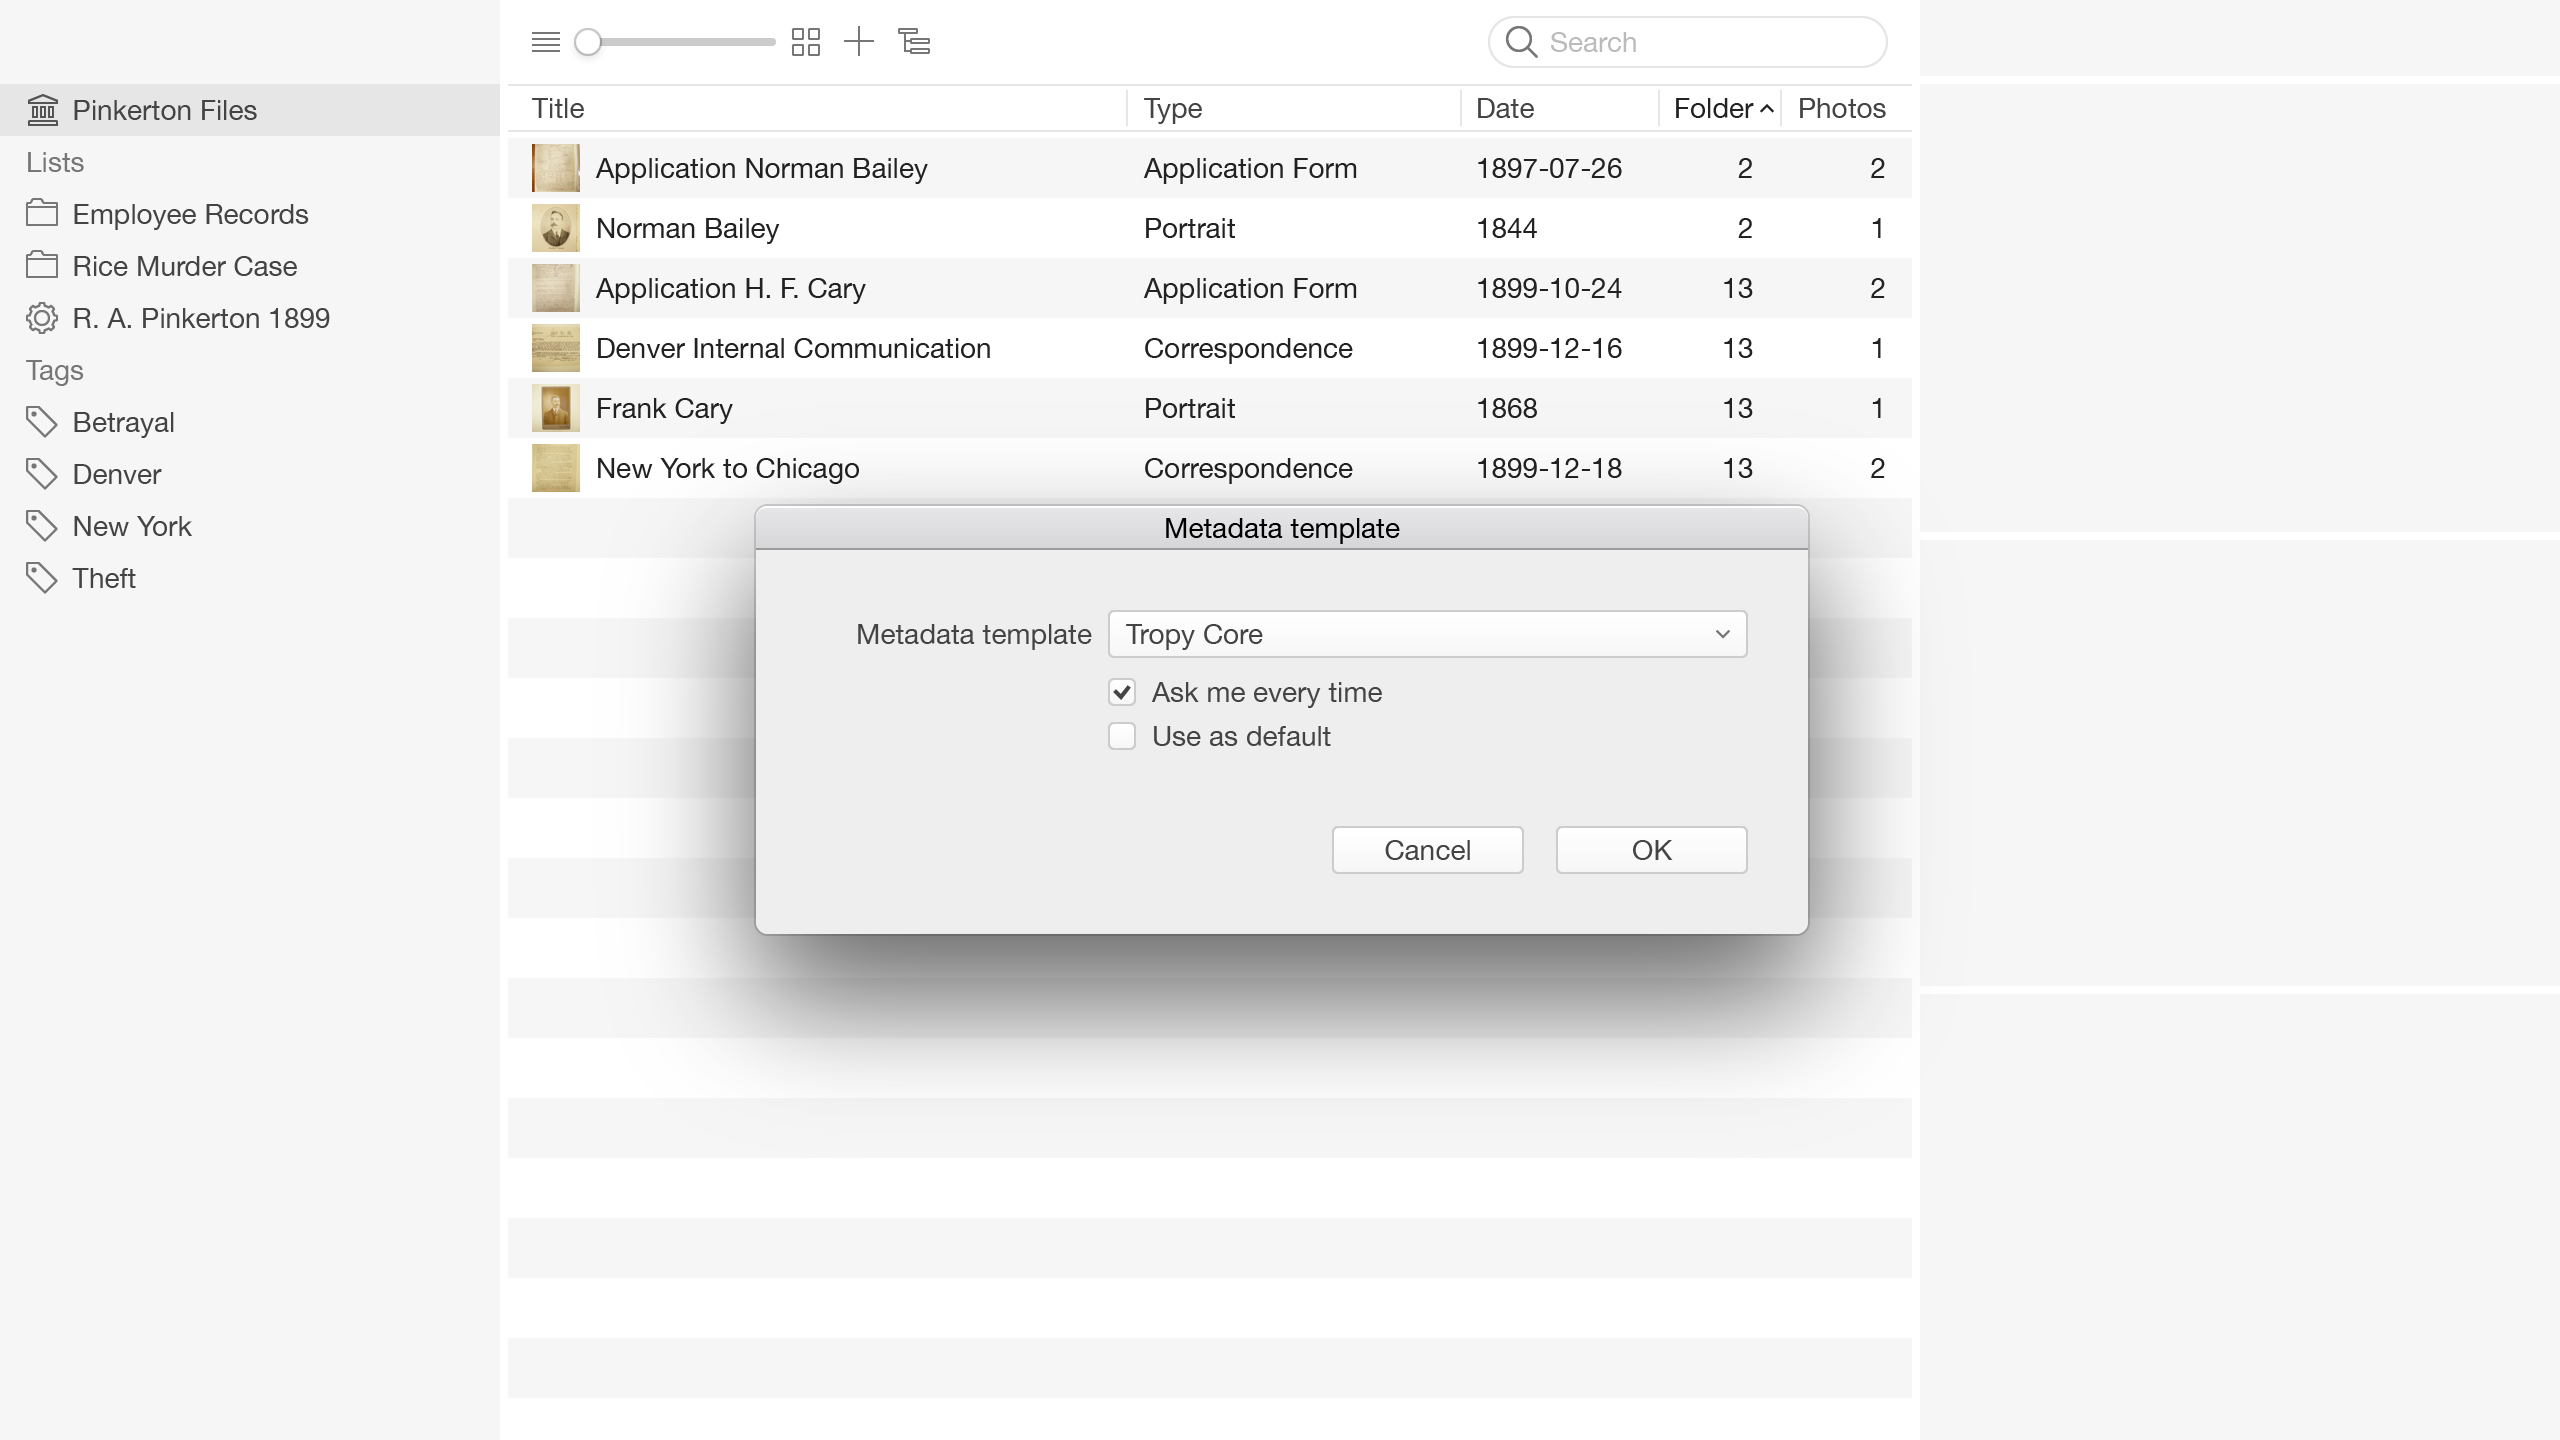
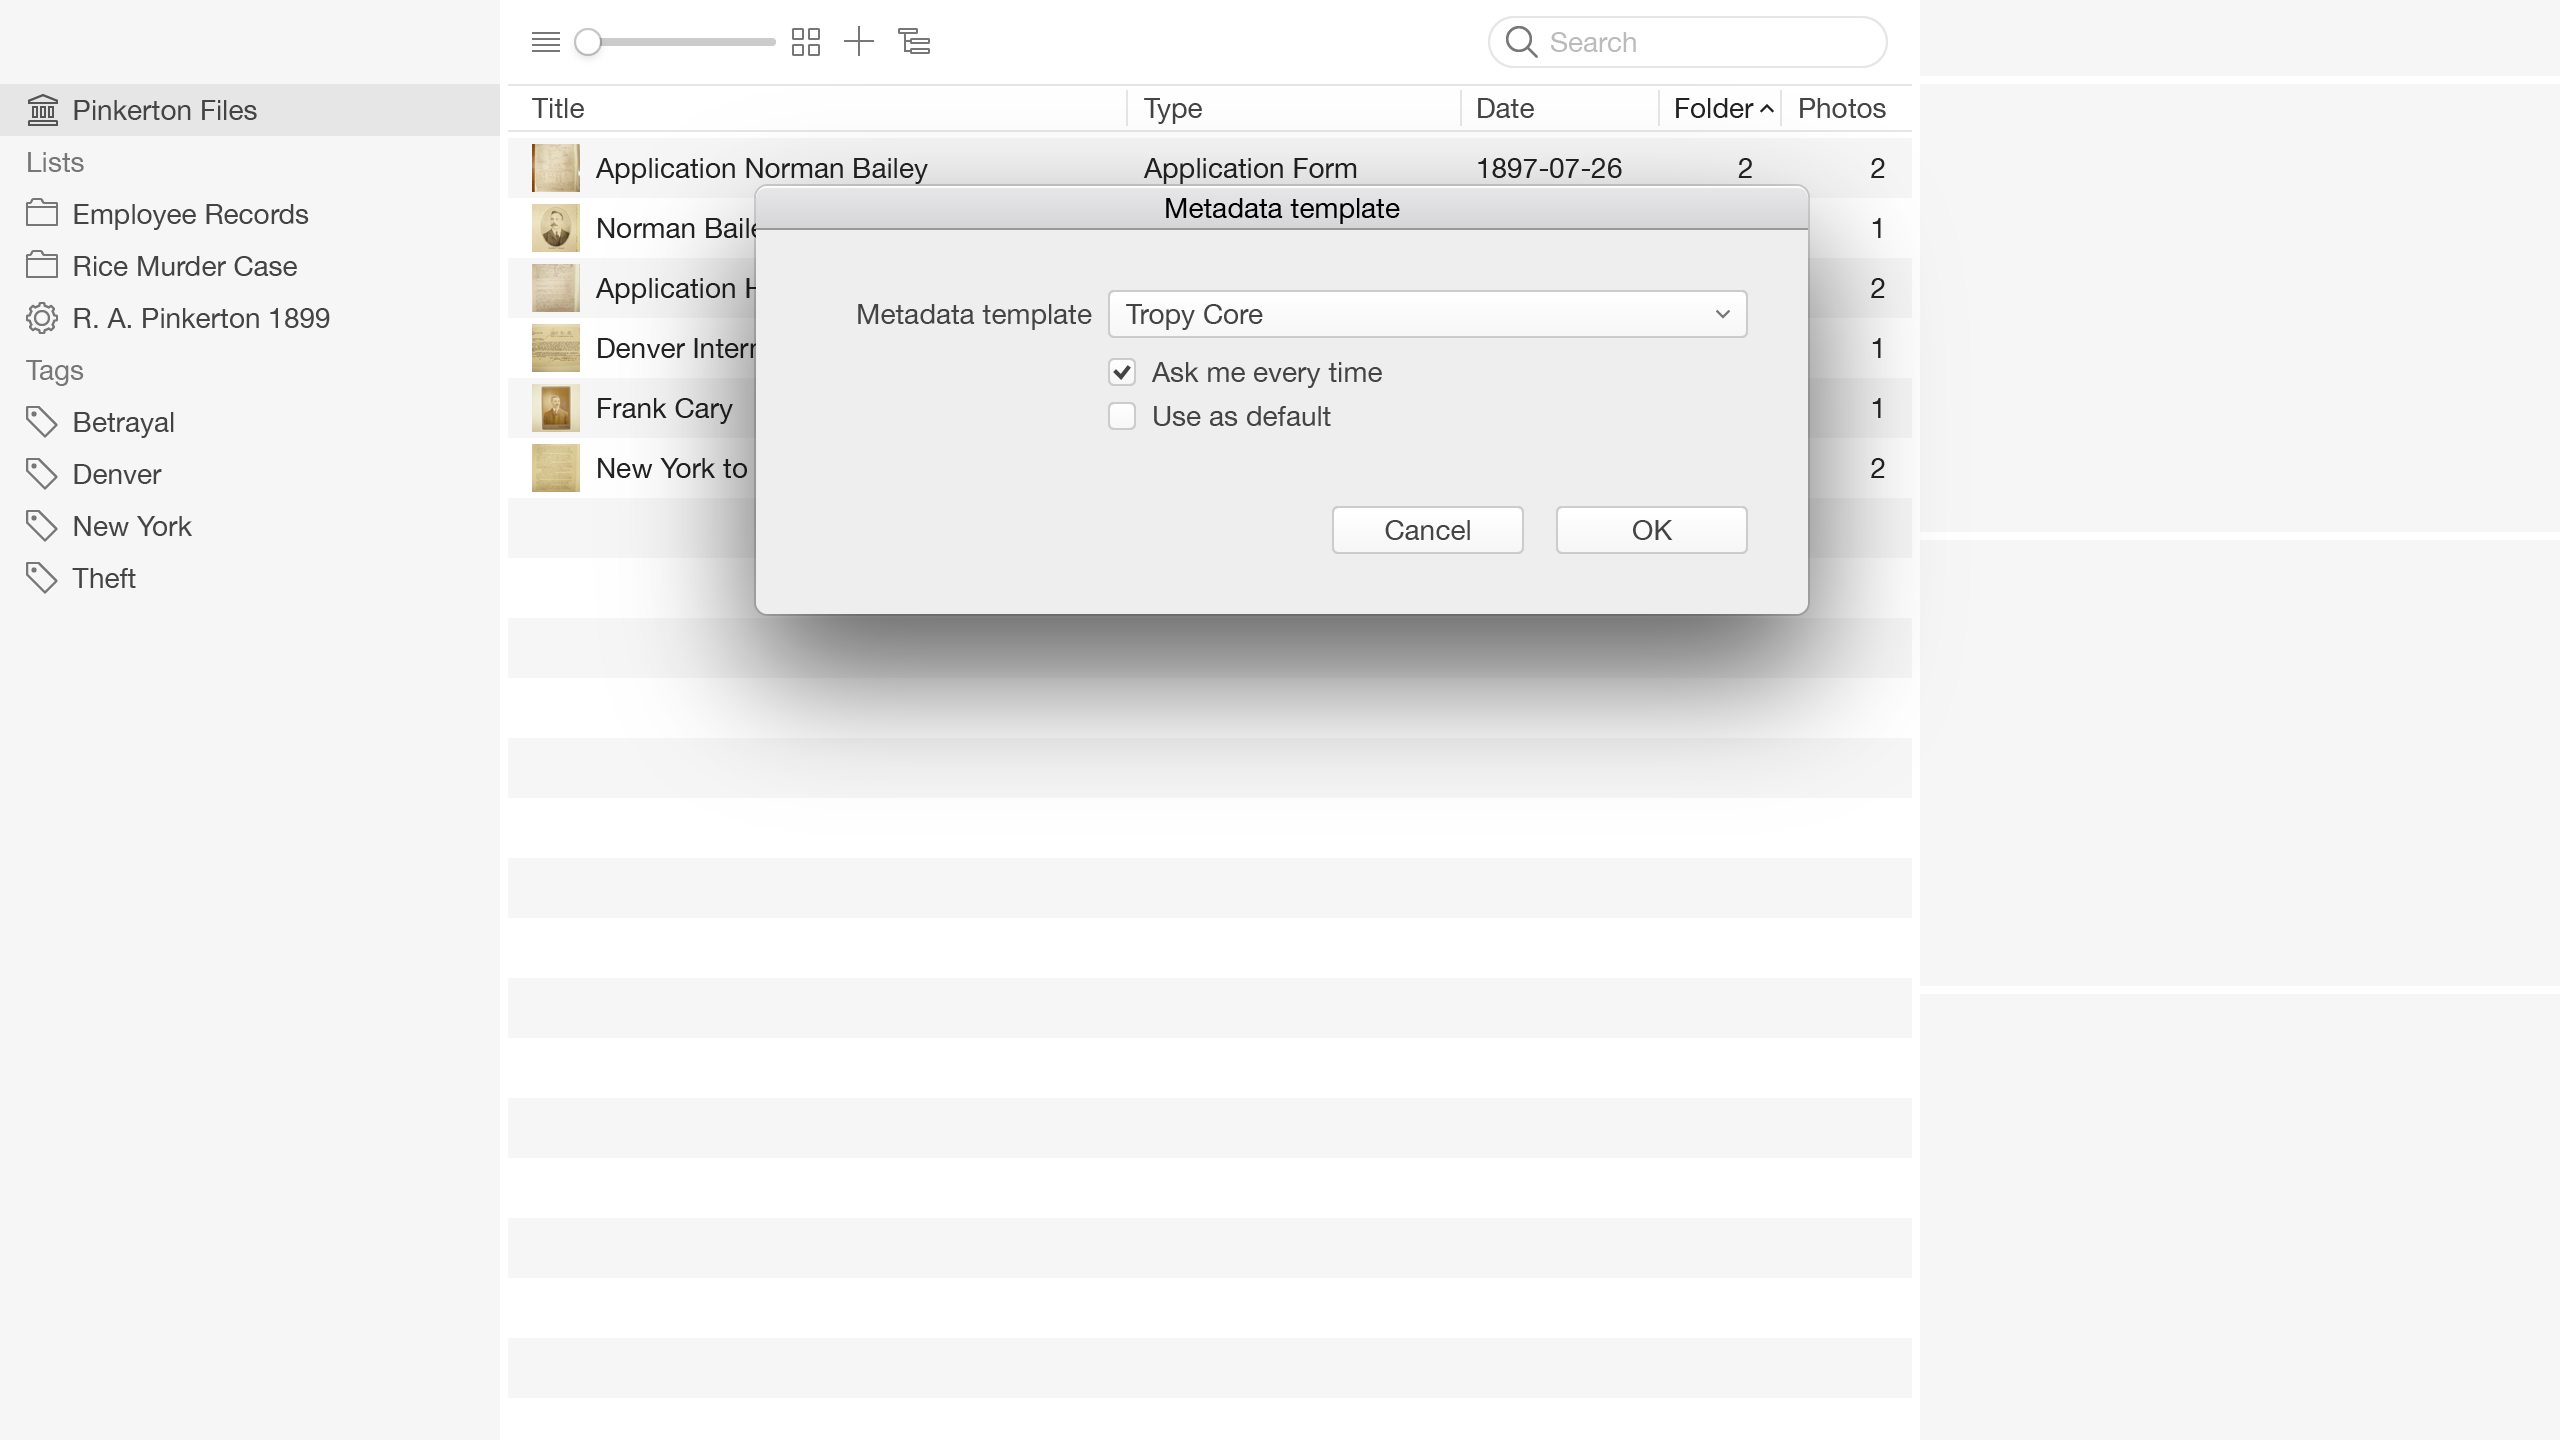
Update window size, hotspot positions and images.

Changed region(s): [[0.25, 0.125, 0.75, 0.75], [0.625, 0.5625, 0.6562, 0.5938], [0.5312, 0.5625, 0.5625, 0.5938]]

diff --git a/src/stylesheets/_dummy.scss b/src/stylesheets/_dummy.scss
@@ -56,7 +56,7 @@ body {
 
 .item-view {
   overflow: hidden;
-  transform: translate3d(1080px, 0, 0);
+  transform: translate3d(960px, 0, 0);
   transition: transform $duration $timing;
   z-index: $zindex-view;
 
@@ -194,106 +194,106 @@ body {
 [data-p="000"] {
   left: 0px;
   top: 42px;
-  width: 280px;
+  width: 250px;
   height: 26px;
 }
 
 [data-p="010"] {
-  left: 420px;
-  top: 439px;
-  width: 600px;
+  left: 254px;
+  top: 69px;
+  width: 702px;
   height: 30px;
 }
 
 [data-p="020"] {
-  left: 420px;
-  top: 481px;
-  width: 600px;
-  height: 30px;
+  left: 554px;
+  top: 145px;
+  width: 320px;
+  height: 24px;
 }
 
 [data-p="030"] {
-  left: 420px;
-  top: 523px;
-  width: 600px;
-  height: 30px;
+  left: 555px;
+  top: 195px;
+  width: 318px;
+  height: 24px;
 }
 
 [data-p="040"] {
-  left: 284px;
-  top: 129px;
-  width: 792px;
+  left: 254px;
+  top: 249px;
+  width: 702px;
   height: 30px;
 }
 
 [data-p="050"] {
-  left: 284px;
-  top: 849px;
-  width: 792px;
-  height: 29px;
+  left: 254px;
+  top: 459px;
+  width: 702px;
+  height: 30px;
 }
 
 [data-p="060"] {
-  left: 1080px;
+  left: 960px;
   top: 160px;
-  width: 360px;
+  width: 320px;
   height: 26px;
 }
 
 [data-p="070"] {
-  left: 284px;
-  top: 189px;
-  width: 792px;
-  height: 60px;
+  left: 254px;
+  top: 279px;
+  width: 702px;
+  height: 30px;
 }
 
 [data-p="080"] {
-  left: 680px;
-  top: 261px;
-  width: 280px;
-  height: 60px;
+  left: 605px;
+  top: 352px;
+  width: 250px;
+  height: 19px;
 }
 
 [data-p="090"] {
-  left: 1080px;
+  left: 960px;
   top: 82px;
-  width: 360px;
+  width: 320px;
   height: 26px;
 }
 
 [data-p="100"] {
-  left: 1080px;
-  top: 346px;
-  width: 360px;
-  height: 252px;
+  left: 960px;
+  top: 293px;
+  width: 320px;
+  height: 199px;
 }
 
 // Item view
 
 [data-p="110"] {
-  left: 372px;
+  left: 332px;
   top: 7px;
   width: 24px;
   height: 24px;
 }
 
 [data-p="120"] {
-  left: 376px;
-  top: 50px;
-  width: 1052px;
-  height: 377px;
+  left: 324px;
+  top: 42px;
+  width: 956px;
+  height: 318px;
 }
 
 [data-p="130"] {
-  left: 376px;
-  top: 451px;
-  width: 1052px;
-  height: 360px;
+  left: 324px;
+  top: 364px;
+  width: 956px;
+  height: 297px;
 }
 
 [data-p="140"] {
-  left: 376px;
-  top: 823px;
+  left: 324px;
+  top: 665px;
   width: 1052px;
   height: 55px;
 }
@@ -310,6 +310,6 @@ body {
 [data-p="160"] {
   left: 0px;
   top: 430px;
-  width: 280px;
+  width: 250px;
   height: 26px;
 }
